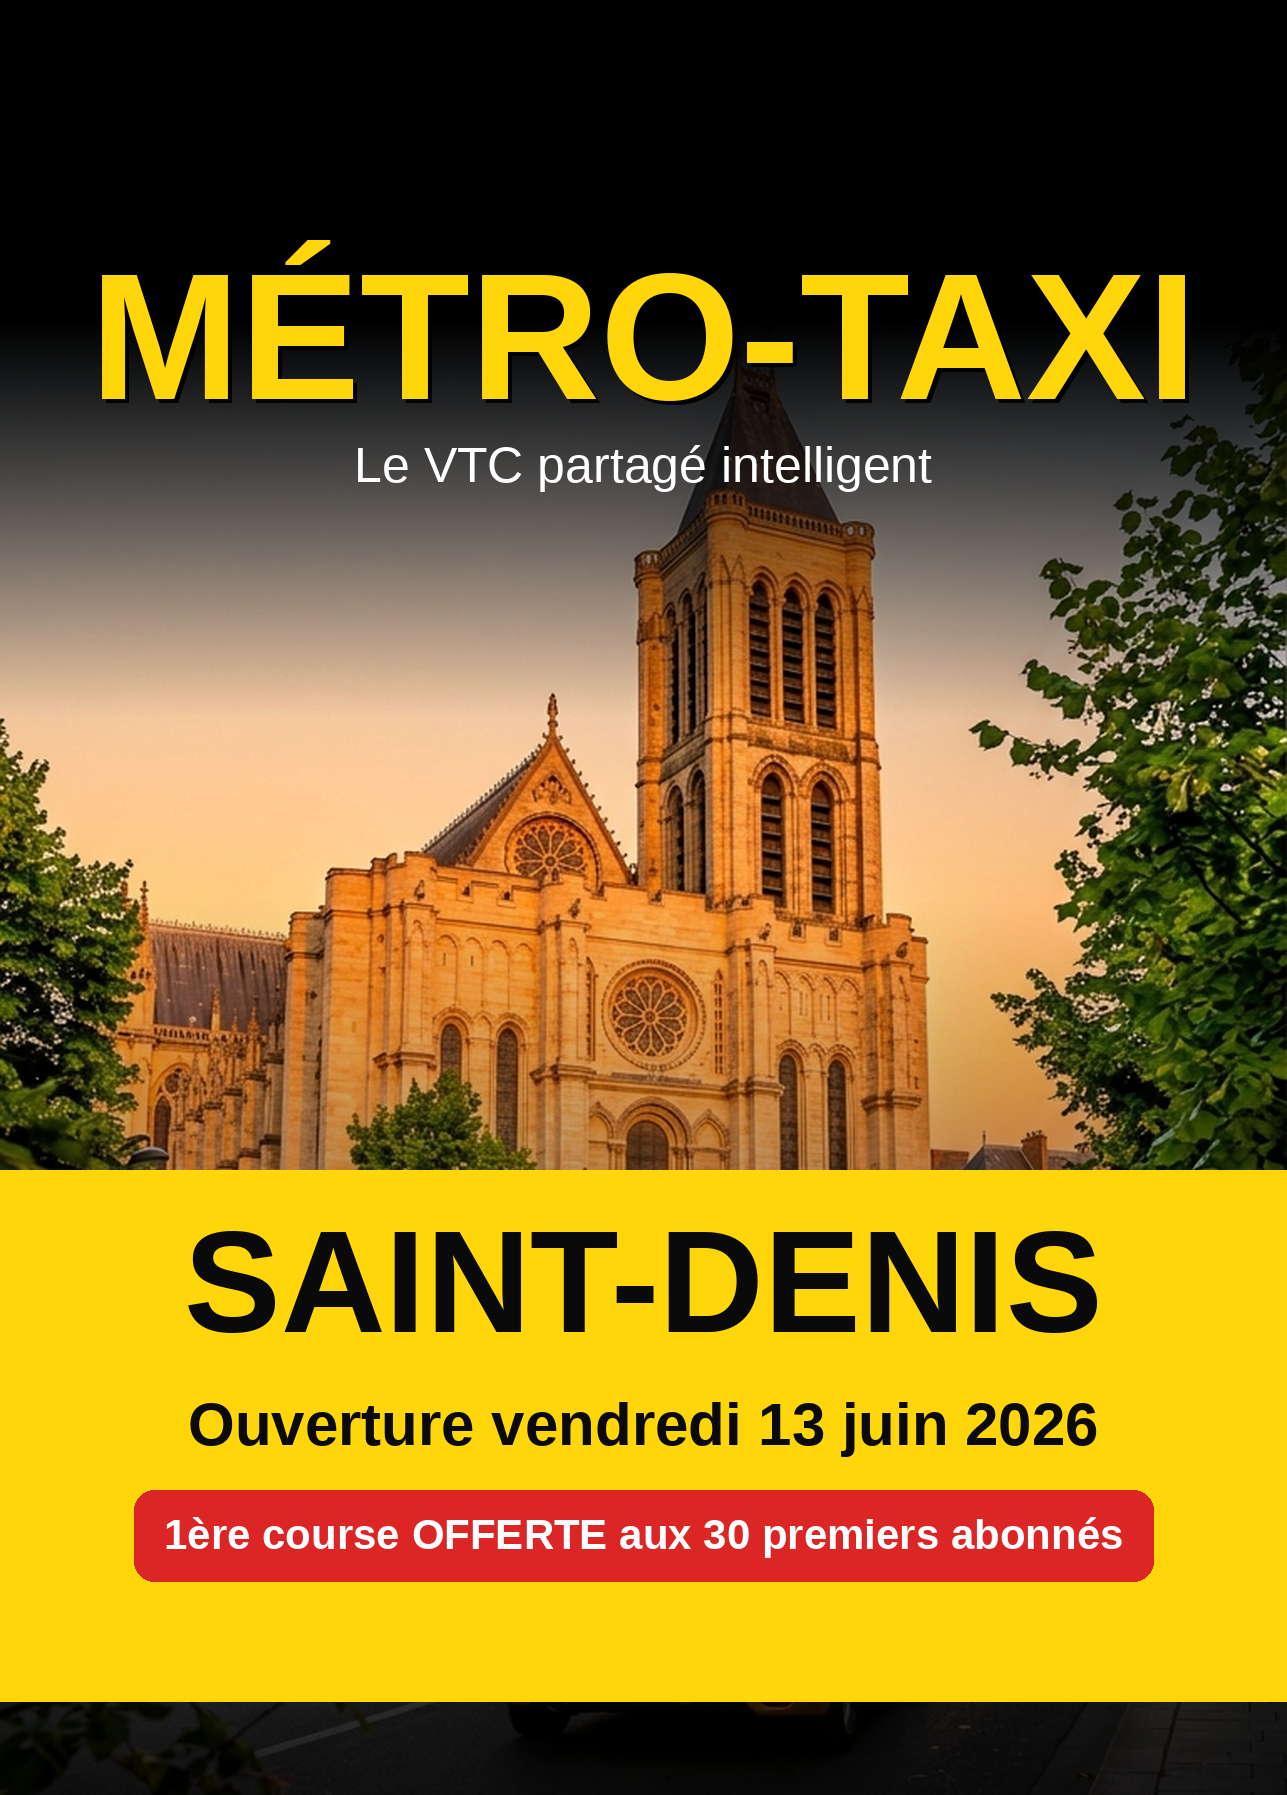
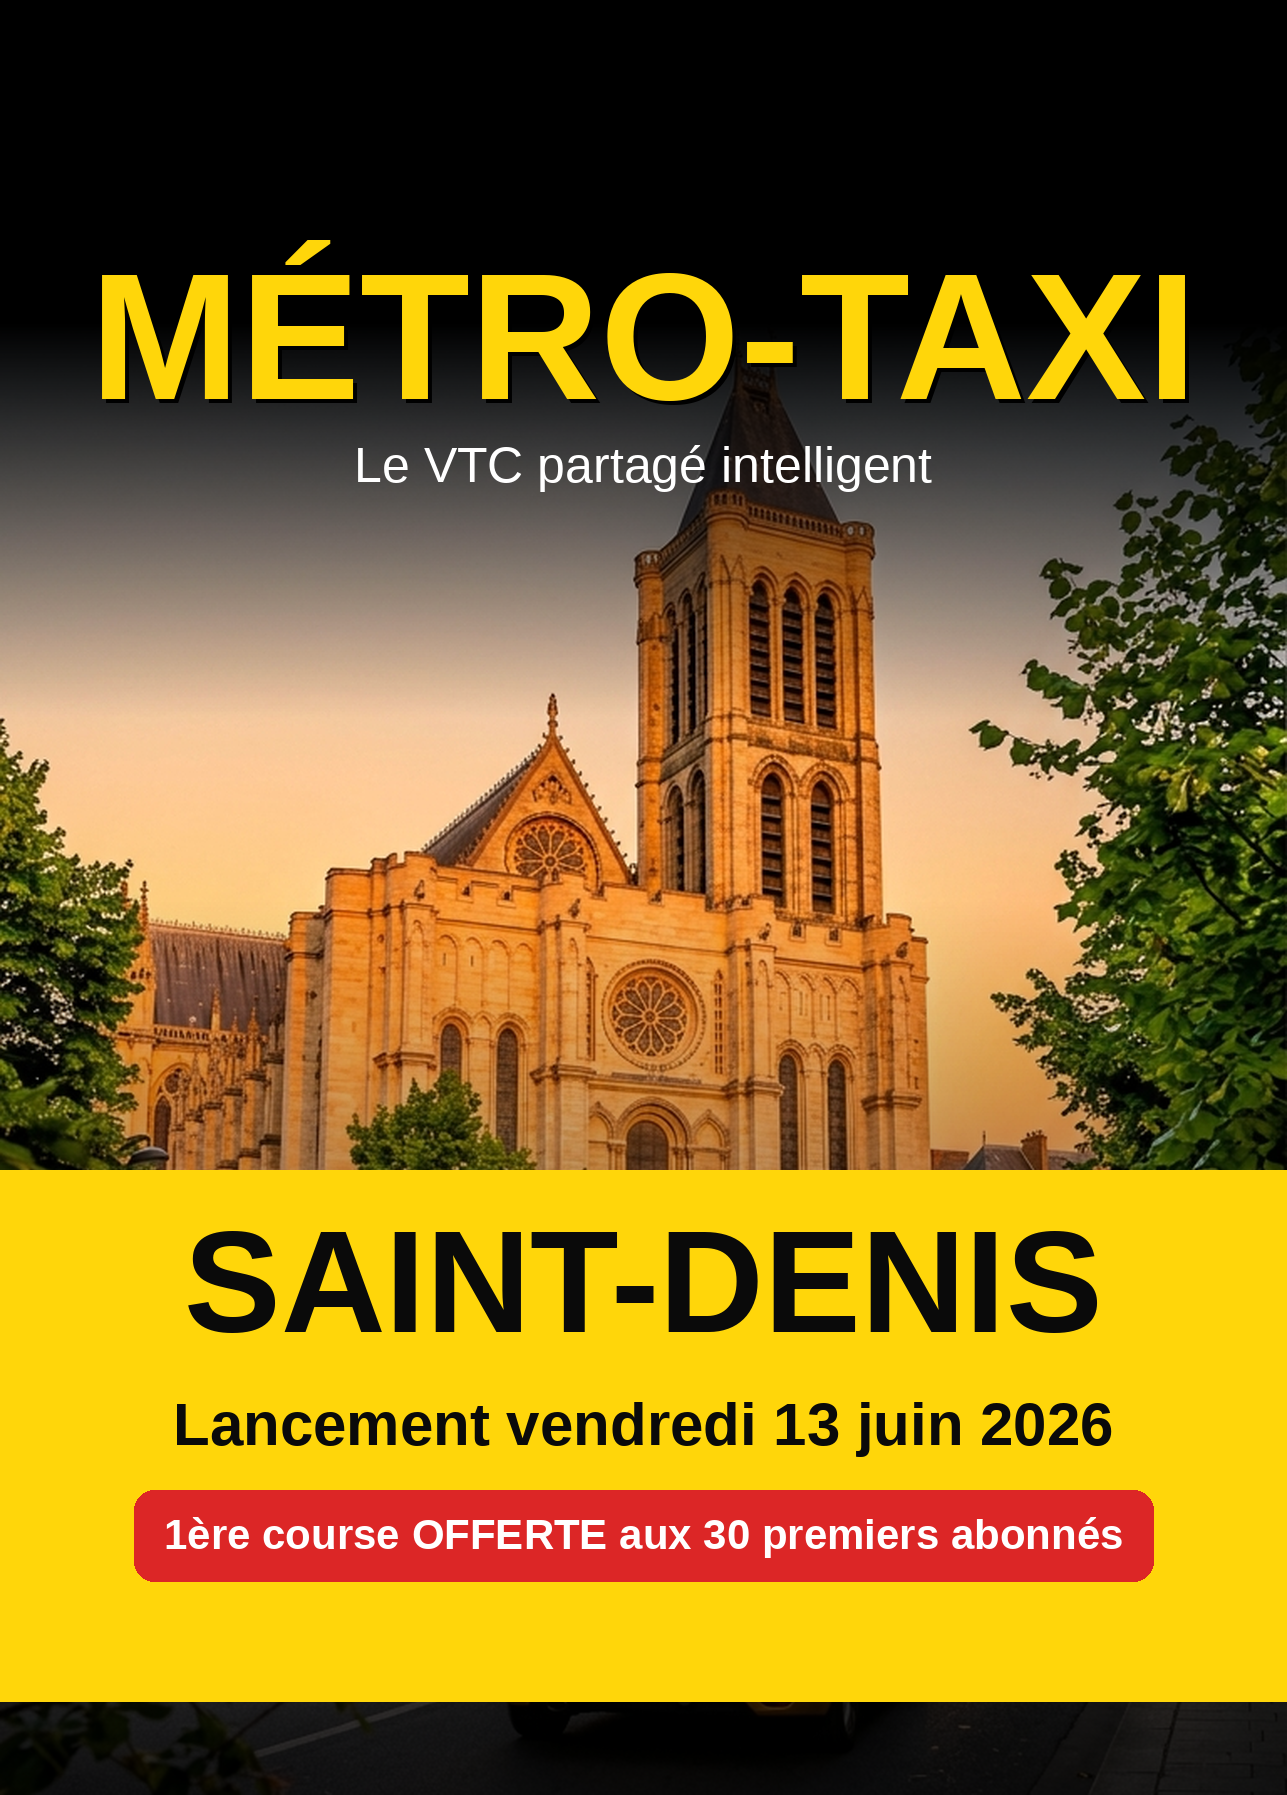
auto-commit for 1c1cfe8c-b3cb-4036-9d33-45017240902b

Changed region(s): [[0.1243, 0.7799, 0.8702, 0.8111]]

diff --git a/build_flyer.py b/build_flyer.py
@@ -173,9 +173,9 @@ def compose_recto(raw_bg_path: str) -> str:
     x = (W_PX - tw) // 2
     draw.text((x, band_top + 30), text, font=f_city, fill=BLACK)
 
-    # "Ouverture vendredi 13 juin 2026"
+    # "Lancement vendredi 13 juin 2026"
     f_date = ImageFont.truetype(FONT_BOLD, 60)
-    text = "Ouverture vendredi 13 juin 2026"
+    text = "Lancement vendredi 13 juin 2026"
     bbox = draw.textbbox((0, 0), text, font=f_date)
     tw = bbox[2] - bbox[0]
     x = (W_PX - tw) // 2